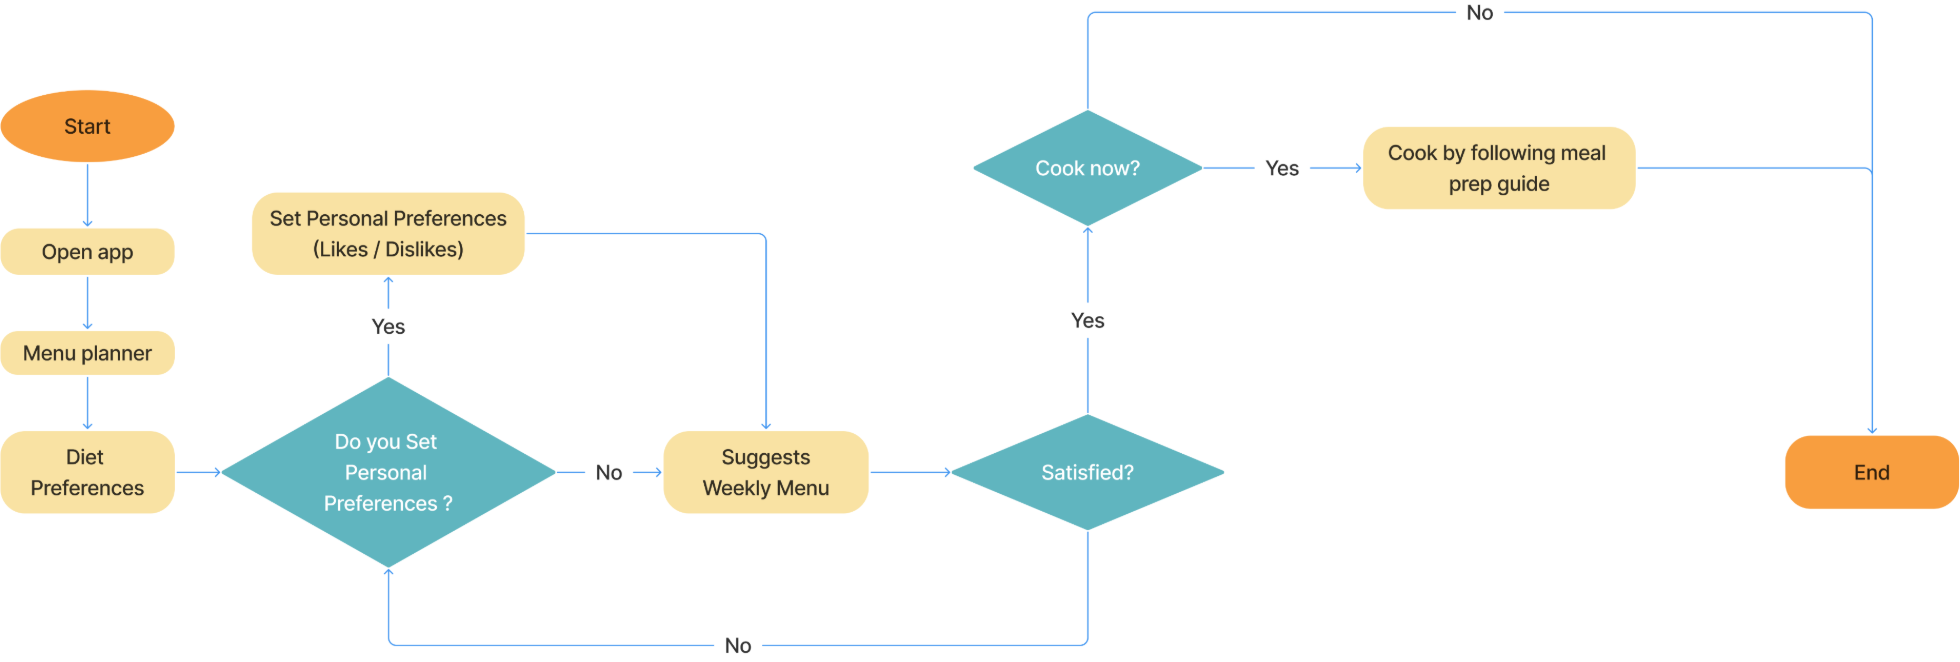
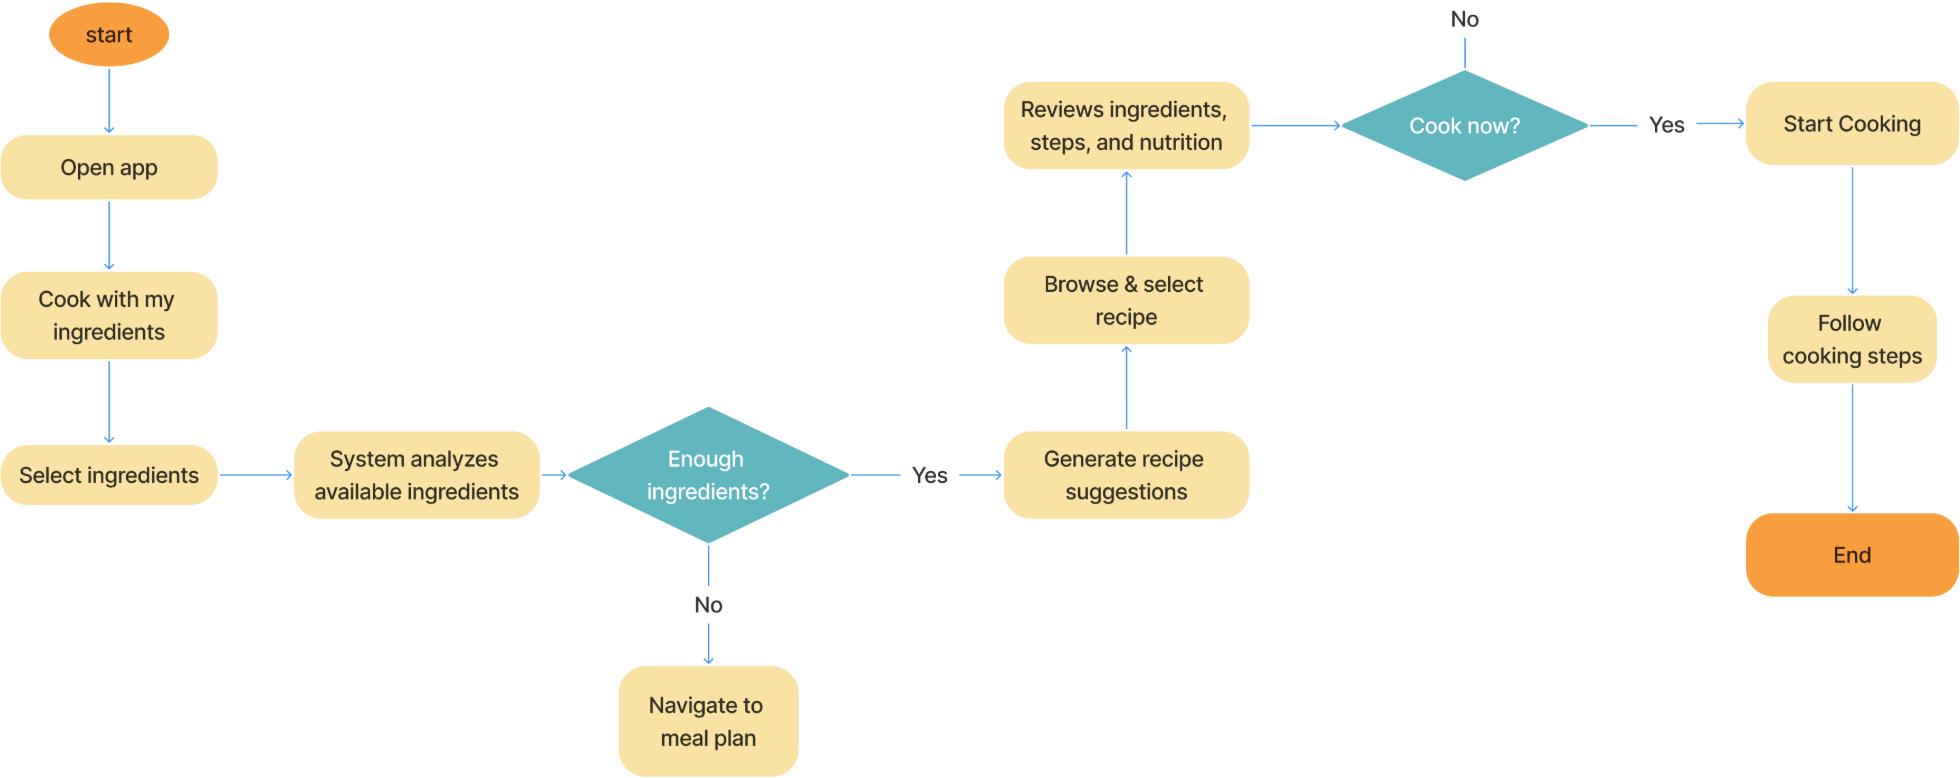
fix(case-studies): match flow diagrams and document native zoom verification

diff --git a/menume.html b/menume.html
@@ -652,7 +652,7 @@
             src="assets/menume-personalized-menu-preferences-task-flow.png"
             alt="Decision flow for personalized weekly menus based on household preferences."
             width="1960"
-            height="678"
+            height="662"
             loading="lazy"
             decoding="async"
           >
@@ -671,7 +671,7 @@
             src="assets/menume-personalized-menu-preferences-task-flow.png"
             alt="Decision flow for personalized weekly menus based on household preferences."
             width="1960"
-            height="678"
+            height="662"
             loading="lazy"
             decoding="async"
           >
@@ -696,7 +696,7 @@
             src="assets/menume-weekly-specials-to-doorstep-task-flow.png"
             alt="Weekly-specials flow connecting discounted groceries, matched recipes, shopping lists, and delivery."
             width="1960"
-            height="778"
+            height="678"
             loading="lazy"
             decoding="async"
           >
@@ -715,7 +715,7 @@
             src="assets/menume-weekly-specials-to-doorstep-task-flow.png"
             alt="Weekly-specials flow connecting discounted groceries, matched recipes, shopping lists, and delivery."
             width="1960"
-            height="778"
+            height="678"
             loading="lazy"
             decoding="async"
           >
@@ -740,7 +740,7 @@
             src="assets/menume-fridge-inventory-to-cooking-task-flow.png"
             alt="Fridge inventory flow from scanning ingredients to recipe selection and cooking."
             width="1960"
-            height="662"
+            height="778"
             loading="lazy"
             decoding="async"
           >
@@ -759,7 +759,7 @@
             src="assets/menume-fridge-inventory-to-cooking-task-flow.png"
             alt="Fridge inventory flow from scanning ingredients to recipe selection and cooking."
             width="1960"
-            height="662"
+            height="778"
             loading="lazy"
             decoding="async"
           >

diff --git a/scotties.html b/scotties.html
@@ -383,11 +383,11 @@
       <figure class="case-study-zoomable-artwork case-study-small-illustration">
         <button
           type="button"
-          popovertarget="scotties-emotional-benefits-mountain-illustration-enlarged"
+          popovertarget="scotties-emotional-benefits-skateboard-illustration-enlarged"
           aria-label="Enlarge: Mountain and board-sports illustration connecting Scotties' emotional benefits."
         >
           <img
-            src="assets/scotties-emotional-benefits-mountain-illustration.svg"
+            src="assets/scotties-emotional-benefits-skateboard-illustration.svg"
             alt="Mountain and board-sports illustration connecting Scotties' emotional benefits."
             width="237"
             height="235"
@@ -397,16 +397,16 @@
         </button>
         <button
           class="case-study-enlarged-artwork"
-          id="scotties-emotional-benefits-mountain-illustration-enlarged"
+          id="scotties-emotional-benefits-skateboard-illustration-enlarged"
           type="button"
           popover
-          popovertarget="scotties-emotional-benefits-mountain-illustration-enlarged"
+          popovertarget="scotties-emotional-benefits-skateboard-illustration-enlarged"
           aria-label="Close enlarged image"
           title="Click the image or press Escape to close"
           autofocus
         >
           <img
-            src="assets/scotties-emotional-benefits-mountain-illustration.svg"
+            src="assets/scotties-emotional-benefits-skateboard-illustration.svg"
             alt="Mountain and board-sports illustration connecting Scotties' emotional benefits."
             width="237"
             height="235"

diff --git a/tales-for-safer-trails.html b/tales-for-safer-trails.html
@@ -198,11 +198,11 @@
       <figure class="case-study-zoomable-artwork case-study-small-illustration">
         <button
           type="button"
-          popovertarget="tales-challenge-guardian-illustration-enlarged"
+          popovertarget="tales-substance-use-stigma-concern-illustration-enlarged"
           aria-label="Enlarge: Guardian character introducing the substance use health challenge."
         >
           <img
-            src="assets/tales-challenge-guardian-illustration.svg"
+            src="assets/tales-substance-use-stigma-concern-illustration.svg"
             alt="Guardian character introducing the substance use health challenge."
             width="236"
             height="266"
@@ -212,16 +212,16 @@
         </button>
         <button
           class="case-study-enlarged-artwork"
-          id="tales-challenge-guardian-illustration-enlarged"
+          id="tales-substance-use-stigma-concern-illustration-enlarged"
           type="button"
           popover
-          popovertarget="tales-challenge-guardian-illustration-enlarged"
+          popovertarget="tales-substance-use-stigma-concern-illustration-enlarged"
           aria-label="Close enlarged image"
           title="Click the image or press Escape to close"
           autofocus
         >
           <img
-            src="assets/tales-challenge-guardian-illustration.svg"
+            src="assets/tales-substance-use-stigma-concern-illustration.svg"
             alt="Guardian character introducing the substance use health challenge."
             width="236"
             height="266"
